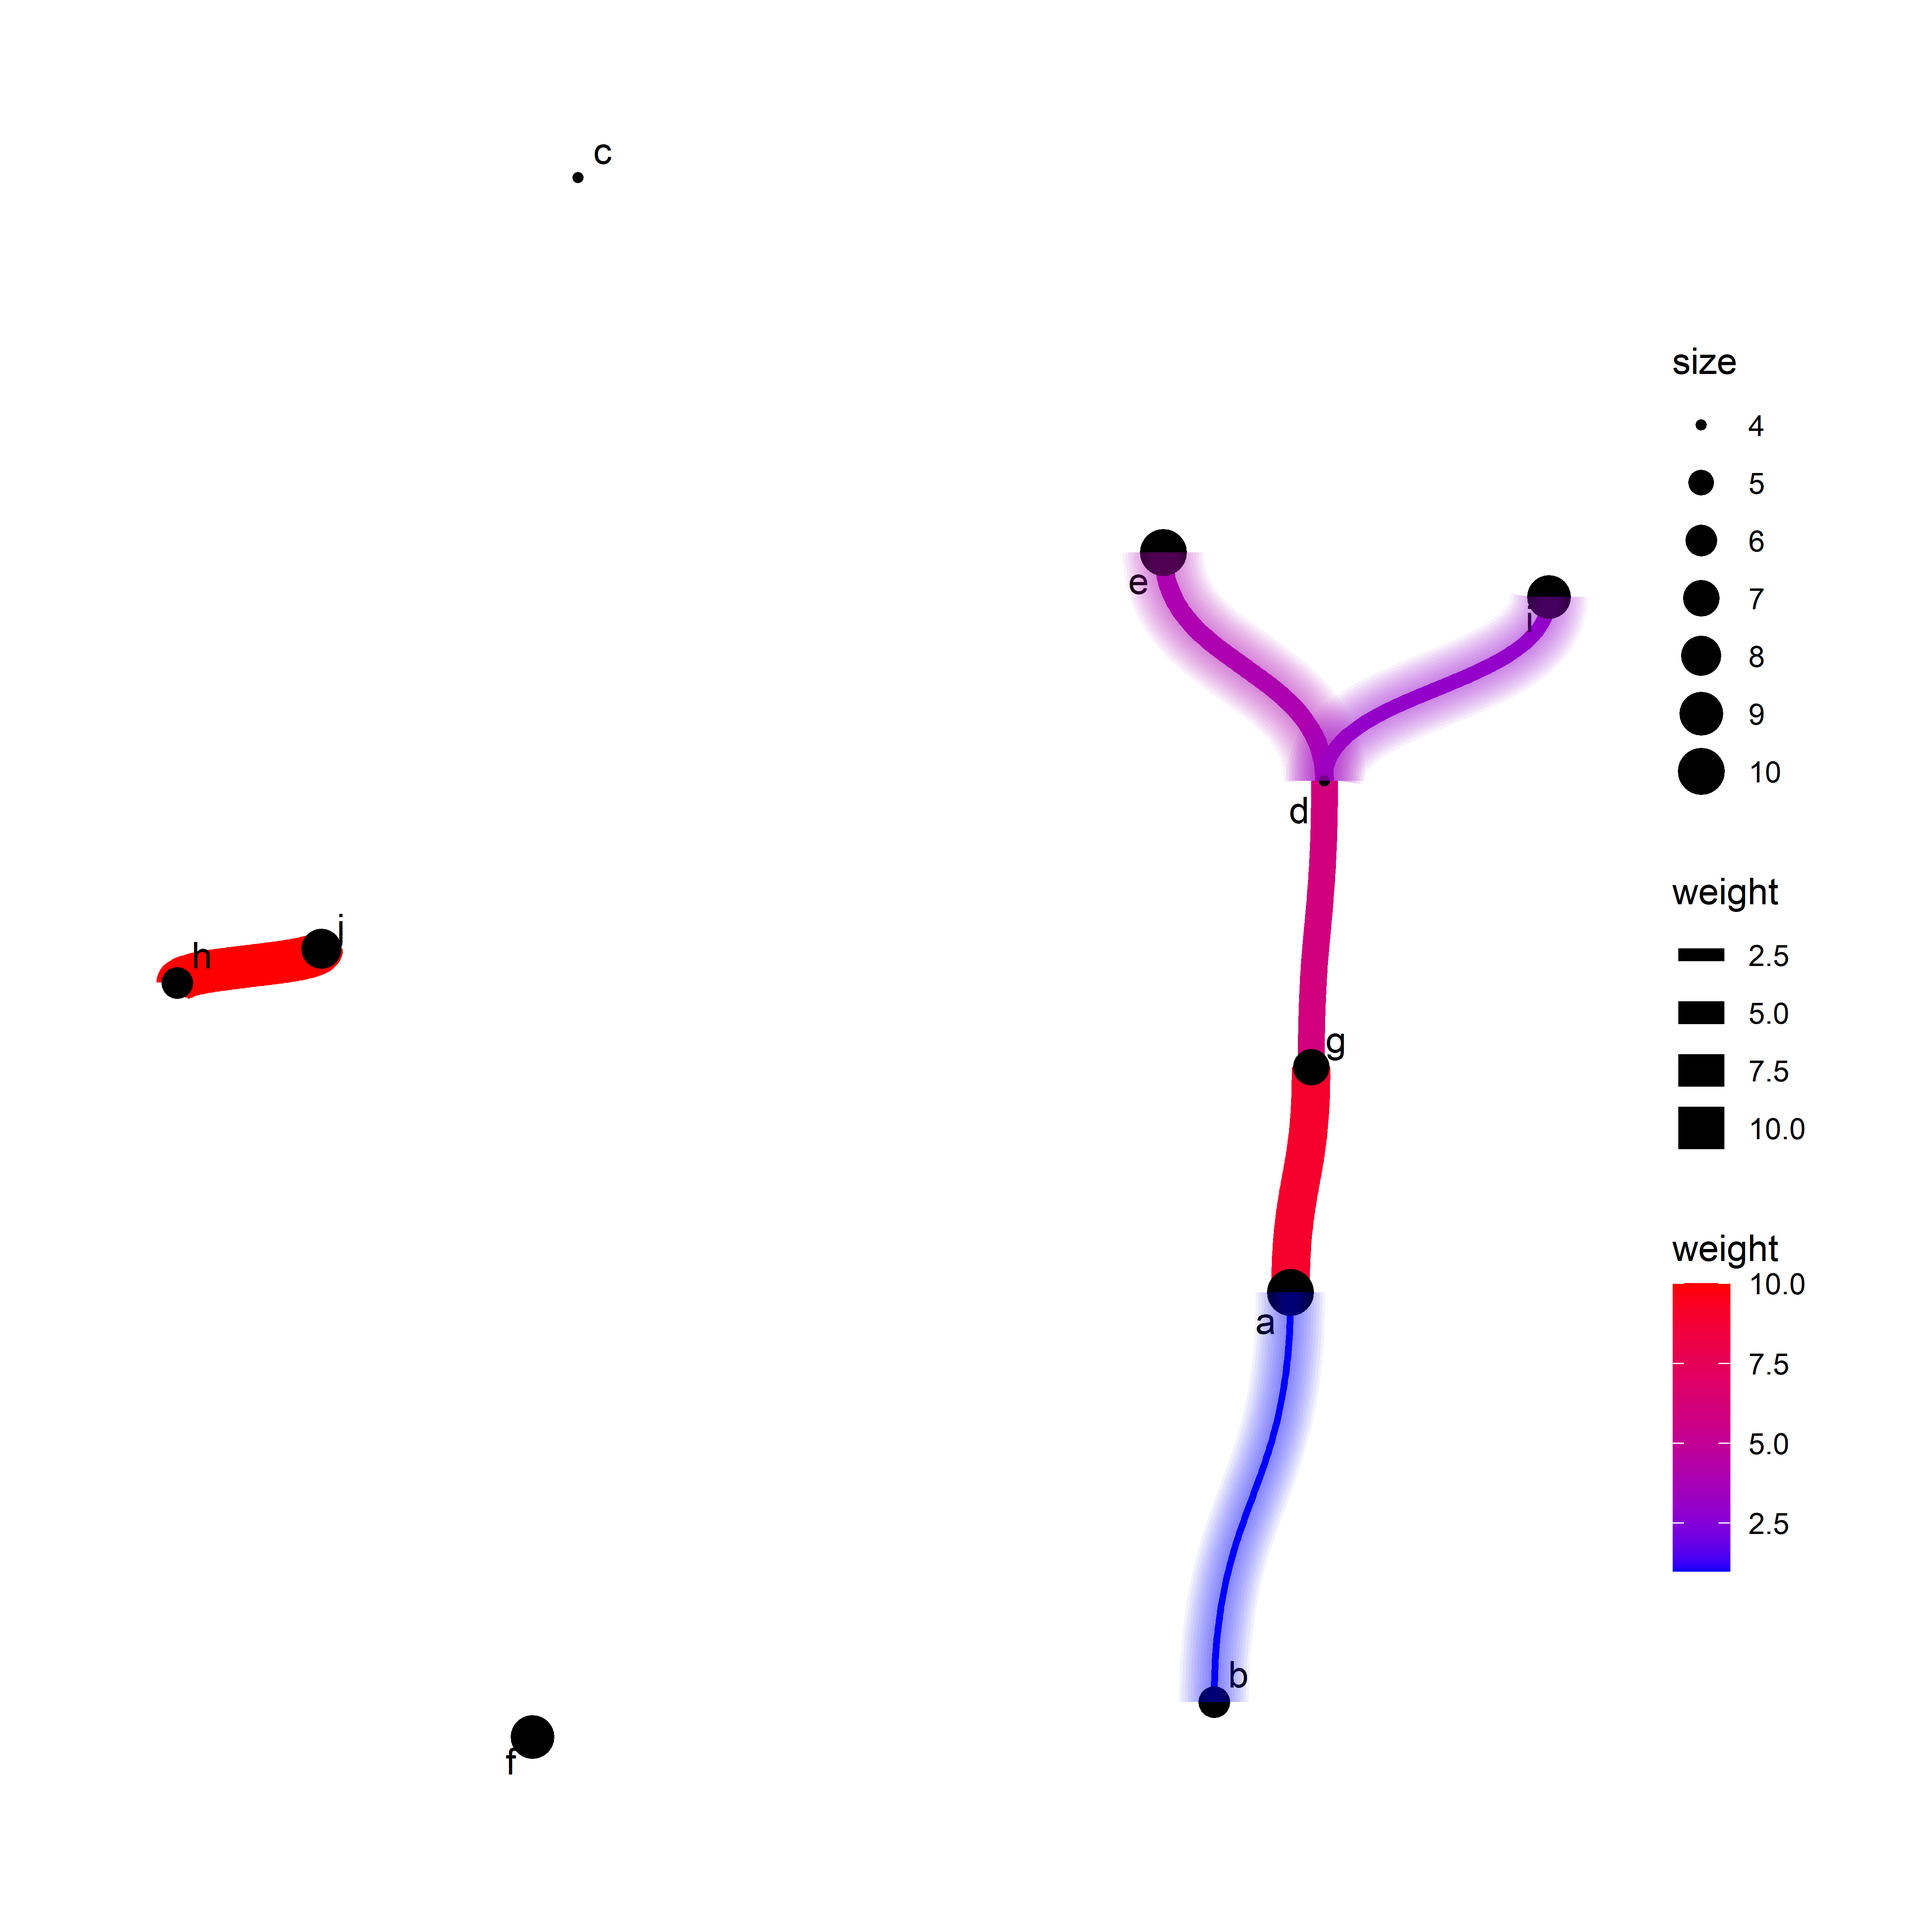
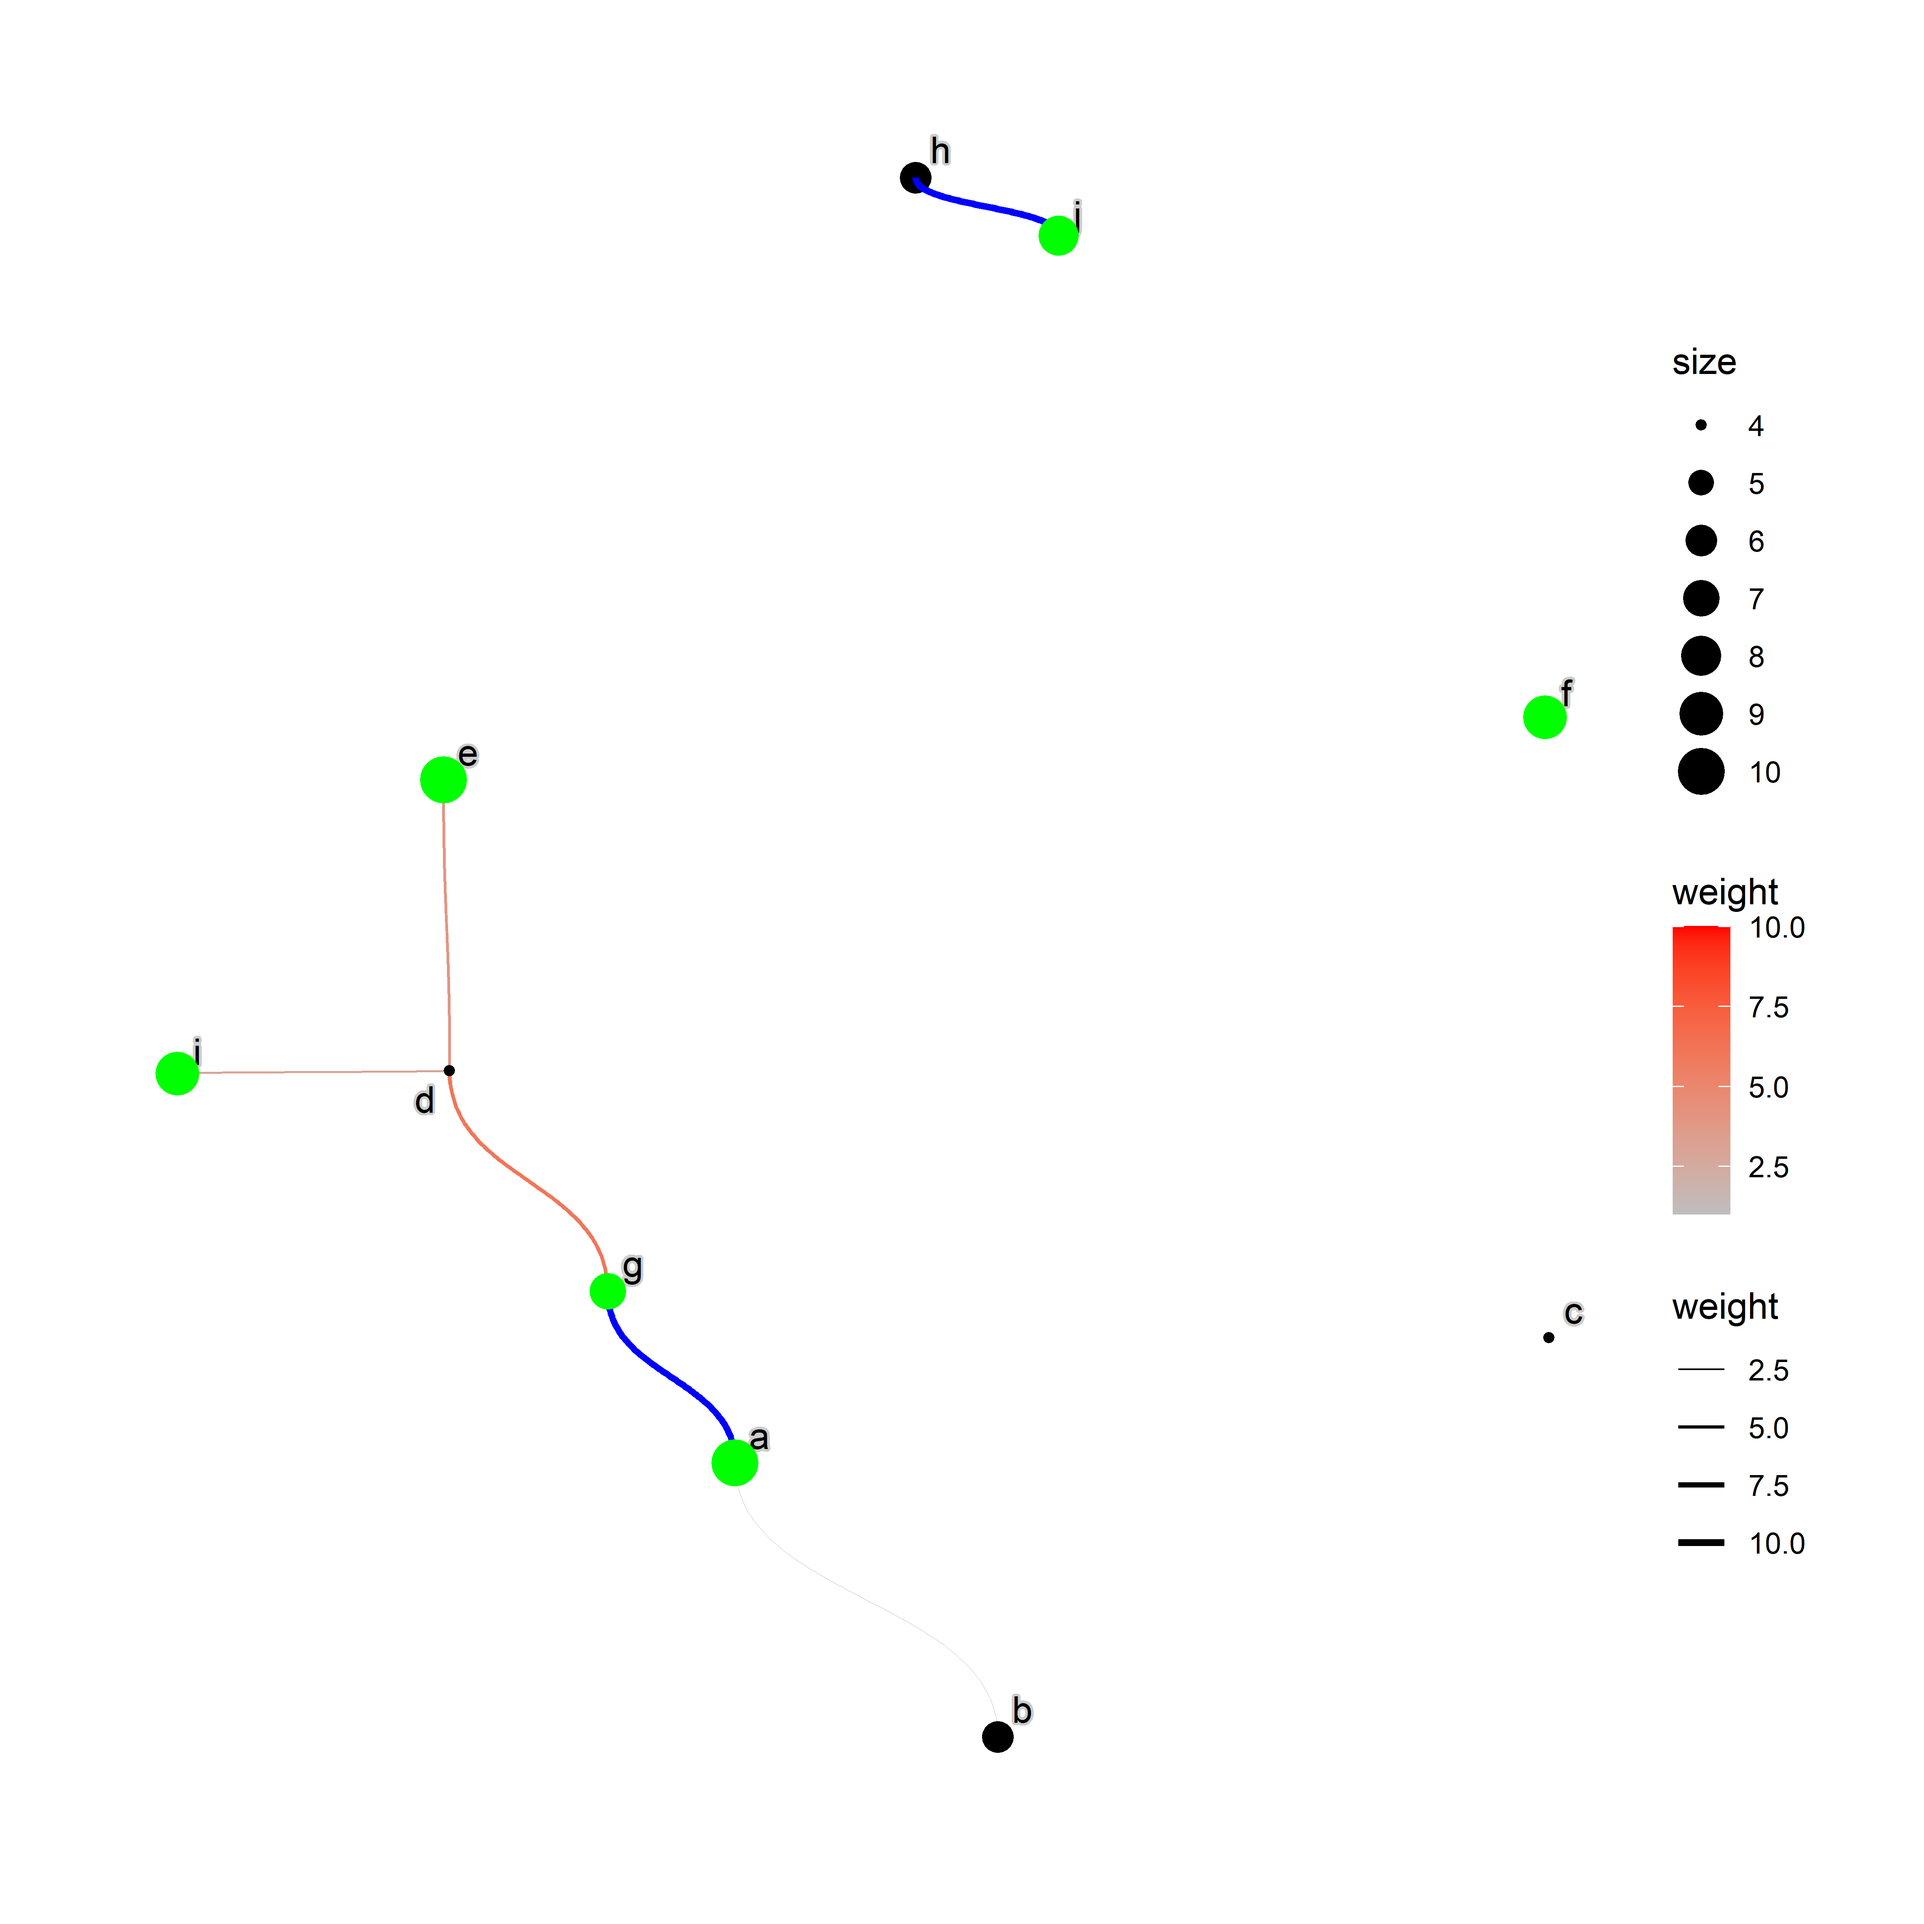
add vignettes and documentation

diff --git a/README.md b/README.md
@@ -5,6 +5,14 @@
 
 This package highlights nodes and edges of `ggraph` plot.
 
+## Installation
+
+``` r
+devtools::install_github("noriakis/graphhighlight")
+```
+
+## Usage
+
 ``` r
 library(ggraph)
 library(igraph)
@@ -19,7 +27,7 @@ ggraph(g, layout="nicely")+
   geom_edge_diagonal(aes(width=.data$weight,
                          color=.data$weight))+
   geom_node_point(aes(size=size))+
-  geom_node_text(aes(label=name), repel=TRUE, color="yellow", bg.colour="grey80")+
+  geom_node_text(aes(label=name), repel=TRUE, bg.colour="grey80")+
   scale_edge_color_gradient(low="grey",high="red")+
   scale_edge_width(range=c(0.1,1))+
   highlight_edge(filter="weight>8",highlight_color = "blue")+
@@ -27,40 +35,4 @@ ggraph(g, layout="nicely")+
   theme_graph()
 ```
 
-<img src="man/figures/README-unnamed-chunk-1-1.png" width="2400" style="display: block; margin: auto;" />
-
-``` r
-ggraph(g, layout="nicely")+
-  geom_edge_diagonal(aes(width=.data$weight,
-                         color=.data$weight))+
-  geom_node_point(aes(size=size))+
-  geom_node_text(aes(label=name), repel=TRUE)+
-  scale_edge_color_gradient(low="blue",high="red")+
-  highlight_node(node_name="a")+
-  highlight_edge(filter="weight<5",
-                 glow=TRUE,
-                 glow_base_size=TRUE,
-                 glow_edge_size=0.8)+
-  theme_graph()
-```
-
 <img src="man/figures/README-unnamed-chunk-2-1.png" width="2400" style="display: block; margin: auto;" />
-
-``` r
-ggraph(g, layout="nicely")+
-  geom_node_point(aes(size=size, color=size))+
-  scale_size(range=c(1,10))+
-  scale_color_gradient(low="blue",high="red")+
-  scale_edge_width(range=c(0,2.5))+
-  geom_edge_link(aes(width=.data$weight),
-                arrow = arrow(length = unit(4, 'mm')), 
-                end_cap = circle(5, 'mm'),
-                start_cap = circle(5, "mm"))+
-  highlight_node(filter="size<5",
-                 highlight_by_shape = TRUE,
-                 specify_shape=21,
-                 specify_shape_size=21)+
-  theme_graph()
-```
-
-<img src="man/figures/README-unnamed-chunk-3-1.png" width="2400" style="display: block; margin: auto;" />
